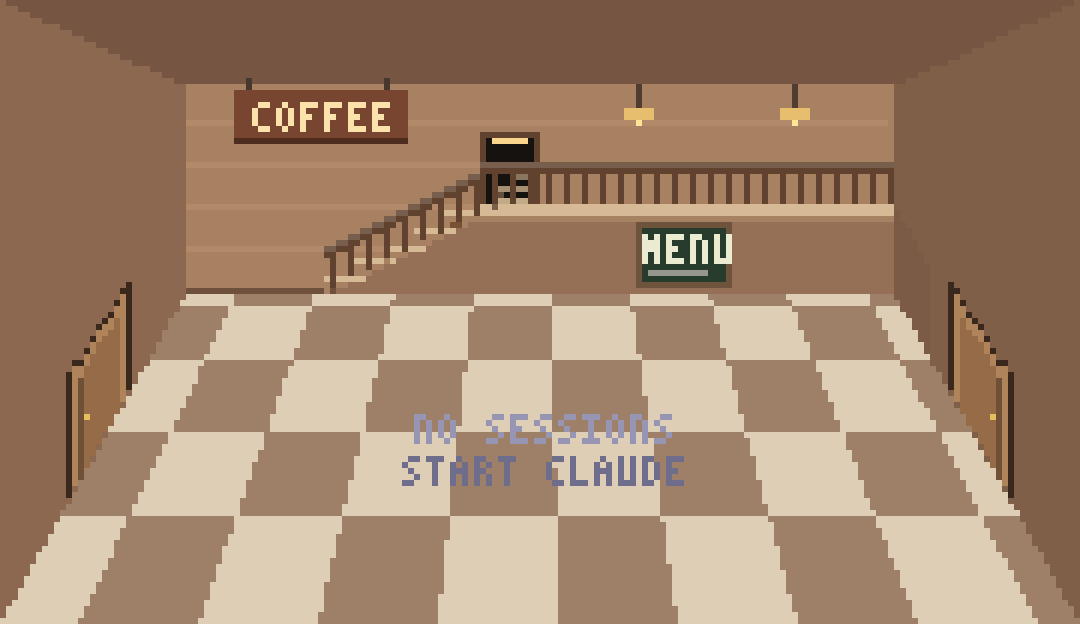
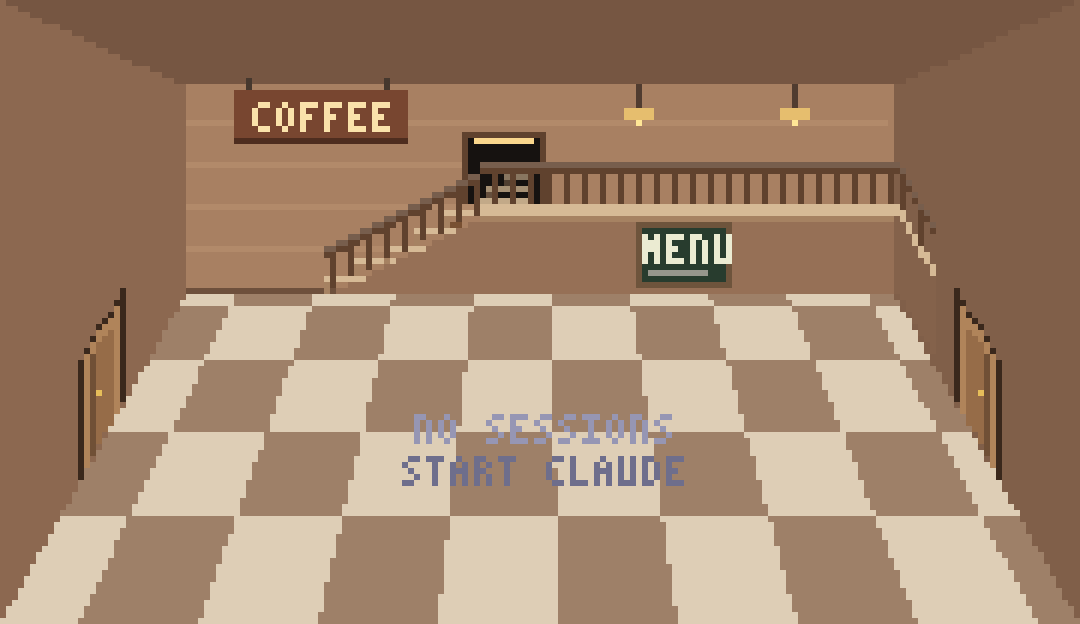
fix(themes): small stair well at the back left going down towards the front; platform along the right wall; wider opening over the stairs' top; narrower doors
Claude-Session: https://claude.ai/code/session_01Qh8rgvM7rmNLjSCToqfMbz

Changed region(s): [[0.825, 0.274, 0.9472, 0.7917], [0.0611, 0.4567, 0.1222, 0.7917], [0.4278, 0.2131, 0.5194, 0.3349]]

diff --git a/c/theme.c b/c/theme.c
@@ -368,8 +368,18 @@ static void back_stairs(Canvas *c, const View *v, int coffee, double p) {
     canvas_rect(c, x1, yl - 1, xr - x1, 2, tread);
     canvas_rect(c, x1, yl + 1, xr - x1, y0 - yl, side);
     canvas_rect(c, x1, yl + 1, xr - x1, 1, riser);
-    double dx = (c->w - v->br) * 0.18, fy0 = v->bb + (c->h - v->bb) * 0.18; /* a little forward along the right-hand wall */
-    quad(c, v->br, yl - 1, v->br + dx, yl - 1 + (fy0 - v->bb), v->br + dx, fy0, v->br, v->bb, dk(side, 0.18));
+    /* the platform carries on a little way along the right-hand wall (it sits in the corner): its top, its face and the
+     * railing follow the wall's slant forward */
+    int ex = (int)((c->w - v->br) * PLATFORM_ALONG);
+    double slope = (c->h - v->bb) / (c->w - v->br);
+    for (int i = 0; i <= ex; i++) {
+        int x = xr + i, top = (int)(yl - 1 + slope * i), fl = (int)(v->bb + slope * i);
+        canvas_rect(c, x, top, 1, 2, tread);
+        canvas_rect(c, x, top + 2, 1, fl - top - 2, dk(side, 0.12));
+        canvas_px(c, x, top - 6, rail); canvas_px(c, x, top - 7, lt(rail, 0.15));
+        if (st->glass_rail) canvas_rect(c, x, top - 5, 1, 5, rgb_mix(st->glass, side, 0.2));
+        else if (i % 3 == 1) canvas_rect(c, x, top - 5, 1, 5, rail);
+    }
     int dw = ARCH_W, dh = (int)fmin(ARCH_H, yl - v->bt - 2), dxl = x1 + ARCH_IN; /* on the left of the platform, where the stairs arrive */
     if (dh > 6) upstairs_opening(c, dxl, yl - 1, dw, dh, st);
     /* the railing up the stairs and along the platform's edge (the opening is behind it): wooden balusters, or a glass
@@ -385,32 +395,32 @@ static void back_stairs(Canvas *c, const View *v, int coffee, double p) {
     if (coffee && xr - x1 > 20 && y0 - yl >= 11) menu_board(c, (x1 + xr) / 2 - 8, yl + 1 + (y0 - yl - 11) / 2); /* the menu on the platform's face */
 }
 
-/* indoors, down: a stair well at the front: a trapezoid opening, its side walls going down, the steps dropping away and
- * getting darker, a railing on the far three sides; p: the opening grows */
+/* indoors, down: a small stair well at the back left of the floor: a trapezoid opening, its side walls going down, the
+ * steps going down from its back edge towards the front (lit at the back, darker towards the front), a railing along its
+ * sides (the way in is at the back; no rail across the front, so the steps show); p: the opening grows */
 static void stair_well(Canvas *c, const View *v, double cx, double front_y, double hgt, double p) {
     if (p <= 0) return;
     double X, Z0, Z1, Xb;
     view_world(v, cx, front_y, &X, &Z0);
     view_world(v, cx, front_y - hgt * p, &Xb, &Z1);
-    double hw = 0.14 * p, x0 = X - hw, x1 = X + hw, dep = 0.045;
-    wq(c, v, x0 - 0.02, Z0, 0, x1 + 0.02, Z0, 0, x1 + 0.02, Z1 + 0.01, 0, x0 - 0.02, Z1 + 0.01, 0, RGB(150, 128, 104)); /* rim */
+    double hw = WELL_HALF_W * p, x0 = X - hw, x1 = X + hw, dep = 0.03;
+    wq(c, v, x0 - 0.015, Z0 - 0.01, 0, x1 + 0.015, Z0 - 0.01, 0, x1 + 0.015, Z1, 0, x0 - 0.015, Z1, 0, RGB(150, 128, 104)); /* rim */
     wq(c, v, x0, Z0, 0, x1, Z0, 0, x1, Z1, 0, x0, Z1, 0, RGB(24, 20, 18));
     wq(c, v, x0, Z0, 0, x0, Z1, 0, x0, Z1, -dep, x0, Z0, -dep, RGB(52, 44, 40));
     wq(c, v, x1, Z0, 0, x1, Z1, 0, x1, Z1, -dep, x1, Z0, -dep, RGB(52, 44, 40));
-    int n = 5;
-    for (int i = n - 1; i >= 0; i--) {
-        double za = Z0 + (Z1 - Z0) * i / n, zb = Z0 + (Z1 - Z0) * (i + 1) / n, e = -dep * (i + 1) / n;
-        wq(c, v, x0, za, e + dep / n, x1, za, e + dep / n, x1, za, e, x0, za, e, dk(RGB(150, 126, 102), 0.11 * i));
-        wq(c, v, x0, za, e, x1, za, e, x1, zb, e, x0, zb, e, dk(RGB(206, 182, 150), 0.11 * i));
+    int n = 4;
+    for (int i = 0; i < n; i++) { /* step i: from the back edge (high, lit) down towards the front */
+        double za = Z1 - (Z1 - Z0) * i / n, zb = Z1 - (Z1 - Z0) * (i + 1) / n, e = -dep * (i + 1) / n;
+        wq(c, v, x0, za, e + dep / n, x1, za, e + dep / n, x1, za, e, x0, za, e, dk(RGB(150, 126, 102), 0.14 * i)); /* riser */
+        wq(c, v, x0, za, e, x1, za, e, x1, zb, e, x0, zb, e, dk(RGB(206, 182, 150), 0.14 * i));                       /* tread */
     }
     if (p < 1) return;
-    double rh = view_e(v, 6);
-    for (int sd = 0; sd < 2; sd++) {
-        double xx = sd ? x1 + 0.02 : x0 - 0.02;
-        for (int k = 0; k <= 2; k++) { double z = Z0 + (Z1 - Z0) * k / 2; canvas_rect(c, (int)view_sx(v, xx, z), (int)view_sy(v, z, rh), 1, (int)(view_sy(v, z, 0) - view_sy(v, z, rh)) + 1, WOOD); }
-        wq(c, v, xx, Z0, rh * 0.9, xx, Z1 + 0.01, rh * 0.9, xx, Z1 + 0.01, rh, xx, Z0, rh, WOOD);
+    double rh = view_e(v, 5);
+    for (int sd = 0; sd < 2; sd++) { /* the railing along the sides */
+        double xx = sd ? x1 + 0.015 : x0 - 0.015;
+        for (int k = 0; k <= 1; k++) { double z = k ? Z1 : Z0 - 0.01; canvas_rect(c, (int)view_sx(v, xx, z), (int)view_sy(v, z, rh), 1, (int)(view_sy(v, z, 0) - view_sy(v, z, rh)) + 1, WOOD); }
+        wq(c, v, xx, Z0 - 0.01, rh * 0.85, xx, Z1, rh * 0.85, xx, Z1, rh, xx, Z0 - 0.01, rh, WOOD);
     }
-    wq(c, v, x0 - 0.02, Z1 + 0.01, rh * 0.9, x1 + 0.02, Z1 + 0.01, rh * 0.9, x1 + 0.02, Z1 + 0.01, rh, x0 - 0.02, Z1 + 0.01, rh, WOOD);
 }
 /* the park, down: stone steps going into the ground, low stone walls round them */
 static void stone_steps(Canvas *c, const View *v, double cx, double front_y, double hgt, double p) {
@@ -449,7 +459,7 @@ void theme_gate(const Theme *th, Canvas *cv, const Geo *g, int side, double p, d
     } else {
         double hgt = g->gate_in[SIDE_DOWN][1] - g->gate_out[SIDE_DOWN][1] + 2;
         if (th == &PARK) stone_steps(cv, v, g->gate_in[SIDE_DOWN][0], g->gate_in[SIDE_DOWN][1] + 1, hgt, p);
-        else stair_well(cv, v, g->gate_in[SIDE_DOWN][0], g->gate_in[SIDE_DOWN][1] + 1, hgt, p);
+        else stair_well(cv, v, g->gate_out[SIDE_DOWN][0], g->gate_out[SIDE_DOWN][1] + 1, g->gate_out[SIDE_DOWN][1] - g->gate_mid[SIDE_DOWN][1] + 1, p);
     }
 }
 

diff --git a/c/room.h b/c/room.h
@@ -91,15 +91,19 @@ typedef struct {
 #define TREEHOUSE_UP 18    /* how far above the back of the floor the treehouse door is */
 #define STAIRS_FOOT 0.2     /* the stairs on the back wall start this far along it ... */
 #define STAIRS_TOP 0.42     /* ... and reach the platform here */
-#define ARCH_W 8            /* the opening up: width, height (room pixels), and how far right of the stairs' top */
+#define ARCH_W 12            /* the opening up: width, height (room pixels), and how far right of the stairs' top */
 #define ARCH_H 11
-#define ARCH_IN 1
-#define DOOR_HALF_DEPTH 0.07 /* a side door spans this part of its depth to each side (a normal door's width) */
+#define ARCH_IN -2
+#define DOOR_HALF_DEPTH 0.05 /* a side door spans this part of its depth to each side (a normal door's width) */
+#define PLATFORM_ALONG 0.22 /* the platform carries on along the right-hand wall for this part of the wall's width */
 #define PLATFORM_UP 0.4     /* the platform (a half floor) is this part of the way up the back wall (room above it for the archway) */
 #define PLAY_Y 0.62        /* the park's swing and slide stand this far down the floor */
 #define PLAY_SWING_X 0.23  /* ... the swing this far across, the slide there */
 #define PLAY_SLIDE_X 0.6
-#define WELL_X 0.24        /* the stair well (indoors), as a part of the width */
+#define WELL_BACK 8         /* the stair well (indoors): its front edge this far in front of the back wall (room pixels), */
+#define WELL_SIDE 11        /* ... its middle this far in from the left-hand wall, */
+#define WELL_DEEP 5         /* ... this deep on screen, */
+#define WELL_HALF_W 0.07    /* ... this wide (world units each side) */
 #define WELL_H 0.3         /* its depth on screen, as a part of the floor's height */
 #define CAM_MAX_ZOOM 4     /* [ ] camera zoom steps over the room */
 #define PER_ROW 5

diff --git a/c/draw.c b/c/draw.c
@@ -247,9 +247,18 @@ void geo_init(Geo *g, const Room *room, int w, int h) {
         g->gate_has_mid[SIDE_UP] = 1; g->gate_mid[SIDE_UP][0] = x1 + 2; g->gate_mid[SIDE_UP][1] = yl - 1; /* up the stairs, then along the platform */
         g->gate_out[SIDE_UP][0] = x1 + ARCH_IN + ARCH_W / 2.0; g->gate_out[SIDE_UP][1] = yl - 1;          /* to the archway */
     }
-    double wx = w * (park ? 0.5 : WELL_X), wh = (h - v->bb) * WELL_H;
-    g->gate_in[SIDE_DOWN][0] = wx; g->gate_in[SIDE_DOWN][1] = h - 1;
-    g->gate_out[SIDE_DOWN][0] = wx; g->gate_out[SIDE_DOWN][1] = h - 1 - wh + 2;
+    if (park) { /* stone steps at the front, going away */
+        double wx = w * 0.5, wh = (h - v->bb) * WELL_H;
+        g->gate_in[SIDE_DOWN][0] = wx; g->gate_in[SIDE_DOWN][1] = h - 1;
+        g->gate_out[SIDE_DOWN][0] = wx; g->gate_out[SIDE_DOWN][1] = h - 1 - wh + 2;
+    } else { /* the stair well at the back left: in beside its back edge, over to the top step, down to its front */
+        double fy = v->bb + WELL_BACK, xl, xr;
+        view_floor_span(v, fy, &xl, &xr);
+        double wx = xl + WELL_SIDE;
+        g->gate_in[SIDE_DOWN][0] = wx + 12; g->gate_in[SIDE_DOWN][1] = fy - WELL_DEEP + 1;
+        g->gate_has_mid[SIDE_DOWN] = 1; g->gate_mid[SIDE_DOWN][0] = wx; g->gate_mid[SIDE_DOWN][1] = fy - WELL_DEEP + 1;
+        g->gate_out[SIDE_DOWN][0] = wx; g->gate_out[SIDE_DOWN][1] = fy;
+    }
     for (int side = 0; side < 2; side++) g->door_y[side] = fy - 8;
     g->rope_x = (int)g->gate_in[SIDE_UP][0]; g->stairs_x = (int)g->gate_in[SIDE_DOWN][0];
     g->rope_end = (int)g->gate_in[SIDE_UP][1];

diff --git a/Clawd Room Note/Notes/Rooms and Art.md b/Clawd Room Note/Notes/Rooms and Art.md
@@ -83,10 +83,10 @@ Gates sit **on the room's walls, ceiling and floor**, not at the window edge, so
 | --- | --- | --- |
 | **Side** | a **door** on the side wall facing the neighbour, a normal door's width, drawn column by column along the wall (dark outline, light frame and lintel, leaf with a knob; reads on any wall); **opens while a Clawd passes** | a **fence** along that side with a **gate** (the bushes leave that side) |
 | **Up** | **stairs to a half floor** (below): **steel with a glass railing** in the office, **wooden with balusters** in the coffee shop | a **treehouse** in the big tree, a ladder up to it |
-| **Down** | a **stair well** at the front: trapezoid opening, side walls going down, steps dropping away into the dark, a railing | **stone steps** into the ground, low stone walls round them |
+| **Down** | a small **stair well** at the back left of the floor: trapezoid opening, side walls going down, steps going down from its back edge towards the front, a railing along its sides | **stone steps** into the ground, low stone walls round them |
 
 > [!example] The stairs, as Zaviel drew them
-> They start a fifth of the way along the back wall (`STAIRS_FOOT` 0.2) and climb to a **platform** 40% of the way up the wall (`PLATFORM_UP` 0.4, reached at `STAIRS_TOP` 0.42). The platform runs to the right-hand wall; its front face goes down to the floor (the coffee shop's **menu** hangs on it). A **banister** runs up the stairs and along the platform. The way up is a small **opening where the stairs carry on upwards** (steps into the dark, a warm light at the top) on the left of the platform, right where the stairs arrive, standing on the platform floor behind the railing (kept by Zaviel after mockups of other ideas).
+> They start a fifth of the way along the back wall (`STAIRS_FOOT` 0.2) and climb to a **platform** 40% of the way up the wall (`PLATFORM_UP` 0.4, reached at `STAIRS_TOP` 0.42). The platform runs to the right-hand wall and a little way along it (it sits in the corner); its front face goes down to the floor (the coffee shop's **menu** hangs on it). A **banister** runs up the stairs and along the platform. The way up is an **opening where the stairs carry on upwards** (steps into the dark, a warm light at the top) on the left of the platform, starting over the top of the stairs, standing on the platform floor behind the railing (kept by Zaviel after mockups of other ideas).
 >
 > ![[2026-10-18 way up coffee.png|300]] ![[2026-10-18 way up office.png|300]]
 

diff --git a/Clawd Room Note/Notes/Test Checklist.md b/Clawd Room Note/Notes/Test Checklist.md
@@ -24,7 +24,7 @@ tags:
 ## Gates and crossing ([[Interaction]])
 - [x] Two linked windows side by side: gates appear, `g` sends a Clawd across (2026-10-17, older gates)
 - [ ] Side by side: a door on each room's facing wall; `g`: the Clawd walks to the door, it opens, the Clawd goes through and comes out of the other room's door
-- [ ] Stacked: the upper room shows the stair well (office / coffee) or stone steps (park); the lower room shows the stairs on the back wall (office / coffee) or the treehouse (park)
+- [ ] Stacked: the upper room shows the small stair well at the back left (office / coffee) or stone steps (park); the lower room shows the stairs on the back wall (office / coffee) or the treehouse (park)
 - [ ] Office stairs are steel with a glass railing, coffee shop stairs wooden; the way up is a small opening on the left of the platform with steps going up and a light
 - [ ] Going up: the Clawd climbs the stairs to the half floor, walks along it and goes through the opening (or up the treehouse ladder); coming down the other way round; going down: it walks into the well / steps
 - [ ] Gates appearing animate in, in both windows at the same moment; gates there at start are simply there

diff --git a/Clawd Room Note/Docs/Dev Log.md b/Clawd Room Note/Docs/Dev Log.md
@@ -46,6 +46,13 @@ gitGraph
 ---
 ## 2026-10-18
 
+### 🪜 Stair well at the back left, platform in the corner
+> [!info] Branch `feat/style-a`
+- The **stair well** (way down) is smaller and moved to the **back left** of the floor; its steps go down from the back edge towards the front, with a railing along its sides.
+- The **platform carries on along the right-hand wall**, so it sits in the corner; the way up is wider again and starts over the top of the stairs; side doors a little narrower.
+
+![[2026-10-18 office stairs well and doors.png|300]] ![[2026-10-18 stair well close-up.png|250]]
+
 ### 🚪 The way up, on the left of the platform
 > [!info] Branch `feat/style-a`
 - After mocking up five ideas and trying the lit archway, Zaviel kept the **opening where the stairs carry on upwards** (steps into the dark, a warm light at the top), now **small and on the left of the platform**, right where the stairs arrive.
